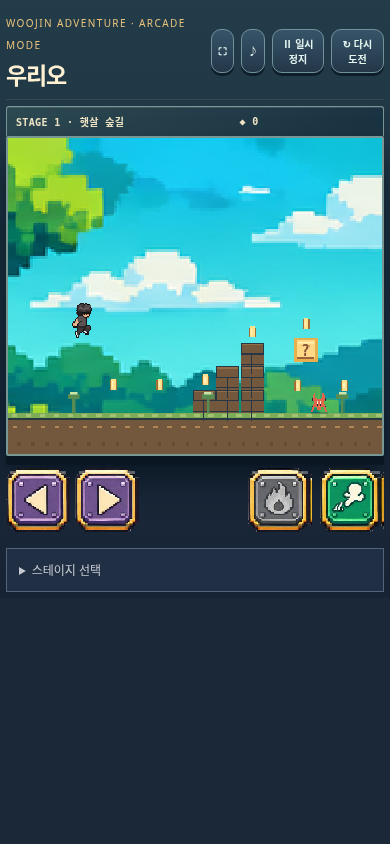
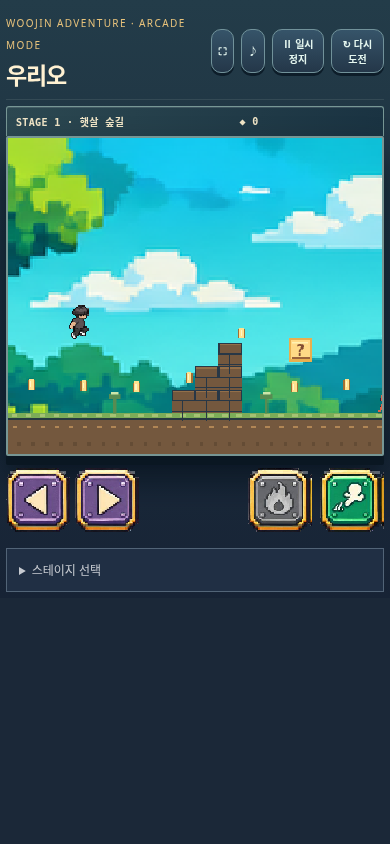
Author nine distinct Woorio room sequences and validate full motion envelopes

diff --git a/dist/adventure.js b/dist/adventure.js
@@ -11,151 +11,104 @@ let stage=0,world,player,camera=0,coins=0,deaths=0,checkpoint=false,bossCheckpoi
 const clamp=(x,a,b)=>Math.max(a,Math.min(b,x)),overlap=(a,b)=>a.x<b.x+b.w&&a.x+a.w>b.x&&a.y<b.y+b.h&&a.y+a.h>b.y;
 function save(){try{localStorage.setItem('woojin-adventure-v1',JSON.stringify({unlocked,total}))}catch{}}
 function level(i){
- const length=5500+i*800,platforms=[],gaps=[],boxes=[],step=i>=5?485:550-i*24,hasBoss=[2,5,8].includes(i);
- const gapStop=hasBoss?length-1720:length-730;
- for(let x=800,n=0;x<gapStop;x+=Math.max(410,step+((n*7+i*11)%5-2)*(i>=3?19:7)),n++)gaps.push([x,x+(i===8&&n===7?148:Math.min(185,82+i*12+(n%3)*5))]);
- const profiles=[
- {theme:'숲의 산책로',heights:[0,22,38,0,50,22],bridge:0},
- {theme:'무너지는 해안 다리',heights:[0,8,22,8,38,0],bridge:1},
- {theme:'유적의 기둥 회랑',heights:[0,42,72,22,82,38],bridge:2},
- {theme:'수정 동굴의 상하 갈림길',heights:[0,72,38,82,22,50],bridge:3},
- {theme:'다층 성벽의 스위치 통로',heights:[0,38,78,38,8,63],bridge:4},
- {theme:'승강기와 폭풍 교량',heights:[0,50,22,72,38,82],bridge:5},
- {theme:'정밀 가공 라인',heights:[0,22,63,8,78,30],bridge:6},
- {theme:'붕괴하는 공중 성벽',heights:[0,63,30,82,38,72],bridge:7},
- {theme:'최후의 복합 시련',heights:[0,78,24,56,82,38,8,72],bridge:8}];
- const profile=profiles[i],elevation=profile.heights,ground=[];
- let x=0;for(const[a,b]of gaps){const n=ground.length,y=n===0?470:470-elevation[(n+i)%elevation.length];ground.push({x,y,w:a-x,h:600-y,ground:true});x=b}
- ground.push({x,y:hasBoss?470:470-elevation[(ground.length+i)%elevation.length],w:length-x,h:150,ground:true});
- // Every climb uses individual standable bricks, not an inaccessible solid slab.
- for(const [n,p]of ground.entries()){
-  if(p.w<290||n===ground.length-1||n%2===1)continue;
-  const bx=p.x+(n===0?315:50);
-  if(bx+214>p.x+p.w-45||bx+214>length-750)continue;
-  // Keep a ground-level approach to each lucky box: stair bricks must not wall off its underside.
-  // Filled, standable brick columns; every solid step is supported from below.
-  const heights=(n+i)%3===1?[1,2,2]:[1,2,3];
-  heights.forEach((height,k)=>{for(let row=0;row<height;row++)boxes.push({x:bx+k*41,y:p.y-40-row*40,w:40,h:40,brick:true,box:false,used:false,broken:false,bump:0,stepBlock:true})});
-  const rewardTypes=['giant','fire','pet','shoes','shield'],reward=rewardTypes[(i*7+Math.floor(bx/41)+n*3)%rewardTypes.length];
-  boxes.push({x:bx+174,y:p.y-128,w:40,h:40,brick:false,box:true,reward,used:false,broken:false,bump:0,stepBlock:true});
- }
- platforms.push(...ground,...boxes);
- for(let n=0;n<5+i;n++){
-  const px=1130+n*(760-i*31),floor=ground.find(p=>px>p.x&&px<p.x+p.w);
-  platforms.push({x:px,y:Math.min(300,(floor?.y||470)-153)+(n%2)*18,w:98+(n%3)*12,h:22,baseX:px,moving:i>=2,phase:n,stone:true,ledge:true});
- }
- const hazards=[],decor=[],belts=[],switches=[];
- for(const [n,p]of ground.entries()){
-  if(p.w>290&&n>0&&n!==ground.length-1&&(n+i)%3!==1){
-   const hx=p.x+p.w-92,w=40+(i%2)*8;
-   if(!boxes.some(b=>hx<b.x+b.w+5&&hx+w>b.x-5))hazards.push({x:hx,y:p.y-21,w,h:21,kind:i%3,broken:false});
+ // Each stage is a sequence of authored rooms, not one repeated island template.
+ // [motif, room width, ground top, following gap]. Last room leads to a safe exit/arena.
+ const layouts=[
+ [['intro',800,470,72],['orchard',690,448,82],['steps',800,420,90],['grove',620,470,75],['creek',900,442,95],['terrace',750,400,0]],
+ [['intro',800,470,82],['dock',650,462,110],['tidal',820,432,100],['warehouse',740,400,90],['tidal',920,450,115],['cliff',680,420,0]],
+ [['intro',800,470,85],['columns',720,420,100],['court',640,395,110],['shrine',900,435,90],['columns',700,400,100],['arch',700,450,0]],
+ [['intro',800,470,90],['cavern',920,410,115],['fork',740,445,105],['crystal',820,390,120],['cavern',960,430,110],['fork',850,400,0]],
+ [['intro',800,470,95],['rampart',800,420,120],['gate',740,390,105],['gallery',980,450,115],['rampart',760,400,125],['gate',860,435,0]],
+ [['intro',800,470,100],['lift',720,420,120],['gantry',920,390,130],['depot',800,440,115],['lift',760,400,135],['rail',940,445,0]],
+ [['intro',800,470,100],['belt',900,420,125],['press',760,390,135],['belt',1050,450,120],['gear',900,400,140],['press',880,435,130],['rail',850,395,0]],
+ [['intro',800,470,105],['ruins',800,420,135],['split',940,390,125],['fragile',760,440,140],['ruins',900,400,130],['split',840,450,145],['fragile',980,395,0]],
+ [['intro',800,470,110],['gate',800,420,135],['lift',780,390,140],['fragile',950,440,130],['press',900,400,145],['split',840,450,135],['gear',920,395,140],['rampart',880,435,130],['rail',950,400,0]]
+ ];
+ const plan=layouts[i],platforms=[],ground=[],gaps=[],coins=[],enemies=[],hazards=[],saws=[],decor=[],belts=[],switches=[],rooms=[];
+ let cursor=0;const hasBoss=[2,5,8].includes(i);
+ for(const [motif,width,y,gap]of plan){const room={motif,x:cursor,w:width,y};rooms.push(room);ground.push({x:cursor,y,w:width,h:620-y,ground:true});cursor+=width;if(gap){gaps.push([cursor,cursor+gap]);cursor+=gap;}}
+ const arenaStart=cursor,length=cursor+(hasBoss?1740:420);ground.push({x:cursor,y:470,w:length-cursor,h:150,ground:true});platforms.push(...ground);
+ const ledge=(x,y,w=100,extra={})=>platforms.push({x,y,w,h:18,stone:true,ledge:true,...extra});
+ const column=(x,y,w,h)=>platforms.push({x,y,w,h,stone:true,wall:true});
+ const steps=(x,y,heights)=>heights.forEach((h,n)=>{for(let row=0;row<h;row++)platforms.push({x:x+n*40,y:y-(row+1)*40,w:40,h:40,brick:true,stepBlock:true,broken:false,bump:0})});
+ const box=(x,y,seed)=>platforms.push({x,y,w:40,h:40,box:true,brick:false,used:false,broken:false,bump:0,reward:['giant','fire','pet','shoes','shield'][(i*7+seed)%5]});
+ for(const[r,room]of rooms.entries()){
+  const{x,y,w,motif:m}=room;
+  // Stable, visible item bays are outside the structure/monster lanes.
+  if(r===0||r%2===1)box(x+(r===0?480:115),y-128,r*3+2);
+  switch(m){
+   case'intro':
+    if(i===0)steps(x+280,y,[1,2,3]);
+    else if(i===1){for(let n=0;n<3;n++)column(x+200+n*75,y-45,48,45);ledge(x+280,y-120,125);}
+    else if(i===2){column(x+220,y-80,60,80);column(x+330,y-120,70,120);}
+    else if(i===3){ledge(x+220,y-80,130);ledge(x+350,y-155,145);}
+    else if(i===4)steps(x+230,y,[1,2,3,3,2]);
+    else if(i===5){ledge(x+230,y-90,100,{elevator:true,baseX:x+230,baseY:y-90,phase:0});column(x+370,y-85,60,85);}
+    else if(i===6){belts.push({x:x+180,y:y-6,w:200,speed:85});column(x+380,y-70,60,70);}
+    else if(i===7){ledge(x+210,y-75,120,{crumble:true,collapseTime:0});ledge(x+345,y-140,110,{crumble:true,collapseTime:0});}
+    else{column(x+220,y-85,60,85);ledge(x+330,y-160,100);ledge(x+500,y-95,85,{elevator:true,baseX:x+500,baseY:y-95,phase:0});}
+    break;
+   case'orchard':steps(x+250,y,[1,2]);ledge(x+370,y-120,140);break;
+   case'steps':steps(x+220,y,[1,2,3,2,1]);break;
+   case'grove':column(x+280,y-70,100,70);ledge(x+440,y-135,150);break;
+   case'creek':ledge(x+230,y-75,160);ledge(x+475,y-130,130);break;
+   case'terrace':steps(x+220,y,[1,2,3]);ledge(x+380,y-165,160);break;
+   case'dock':for(let n=0;n<3;n++)column(x+230+n*80,y-55,50,55);break;
+   case'tidal':for(let n=0;n<4;n++)ledge(x+235+n*115,y-100-(n%2)*40,92,{crumble:true,collapseTime:0});break;
+   case'warehouse':steps(x+220,y,[1,2,3]);ledge(x+420,y-180,170);break;
+   case'cliff':steps(x+240,y,[1,2,3,3]);break;
+   case'columns':for(let n=0;n<3;n++)column(x+240+n*100,y-60-n*30,65,60+n*30);break;
+   case'court':steps(x+220,y,[2,3,2]);ledge(x+380,y-175,160);break;
+   case'shrine':steps(x+240,y,[1,2]);ledge(x+360,y-145,120);ledge(x+540,y-210,145);break;
+   case'arch':column(x+240,y-100,75,100);ledge(x+330,y-170,200);column(x+530,y-100,65,100);break;
+   case'cavern':steps(x+230,y,[1,2]);ledge(x+350,y-145,190);ledge(x+590,y-210,180);break;
+   case'fork':ledge(x+240,y-85,140);ledge(x+415,y-165,170);ledge(x+460,y-65,120,{crumble:true,collapseTime:0});break;
+   case'crystal':column(x+250,y-85,65,85);ledge(x+360,y-155,90);ledge(x+510,y-225,115);break;
+   case'rampart':steps(x+230,y,[1,2,3]);ledge(x+370,y-185,145);ledge(x+555,y-115,100);break;
+   case'gate':steps(x+230,y,[1,2]);{const gate={x:x+w-160,y:y-96,w:28,h:96,stone:true,gate:true,broken:false};platforms.push(gate);switches.push({x:x+w-330,y:y-46,w:36,h:46,time:0,gate});}break;
+   case'gallery':ledge(x+240,y-90,180);ledge(x+460,y-170,210);steps(x+740,y,[2,1]);break;
+   case'lift':ledge(x+240,y-90,105,{elevator:true,baseX:x+240,baseY:y-90,phase:r});ledge(x+415,y-175,130);break;
+   case'gantry':steps(x+230,y,[1,2]);ledge(x+370,y-160,115,{moving:true,baseX:x+370,phase:r});ledge(x+620,y-190,150);break;
+   case'depot':column(x+640,y-80,60,80);steps(x+240,y,[1,2,2,1]);ledge(x+460,y-150,140,{elevator:true,baseX:x+460,baseY:y-150,phase:r});break;
+   case'rail':column(x+720,y-80,60,80);ledge(x+240,y-90,110,{moving:true,baseX:x+240,phase:r});ledge(x+480,y-160,100,{moving:true,baseX:x+480,phase:r+2});break;
+   case'belt':belts.push({x:x+250,y:y-6,w:300,speed:r%2?-90:90});ledge(x+600,y-100,130);break;
+   case'press':column(x+620,y-80,60,80);steps(x+230,y,[1,2]);ledge(x+390,y-155,130);saws.push({x:x+540,y:y-75,baseX:x+540,baseY:y-75,r:16,phase:r*1.7,range:48,speed:1.6});break;
+   case'gear':for(let n=0;n<3;n++)ledge(x+240+n*150,y-90-(n%2)*65,90,{elevator:true,baseX:x+240+n*150,baseY:y-90-(n%2)*65,phase:n*2});break;
+   case'ruins':column(x+250,y-95,70,95);ledge(x+370,y-165,100,{crumble:true,collapseTime:0});ledge(x+540,y-100,100,{crumble:true,collapseTime:0});break;
+   case'split':steps(x+230,y,[1,2]);for(let n=0;n<3;n++)ledge(x+350+n*160,y-155-(n%2)*65,85,{crumble:n!==1,collapseTime:0,moving:i>=7&&n===1,baseX:x+350+n*160,phase:r});break;
+   case'fragile':for(let n=0;n<4;n++)ledge(x+230+n*135,y-90-(n%2)*70,72,{crumble:true,collapseTime:0});break;
   }
-  for(let dx=p.x+110;dx<p.x+p.w-90;dx+=230-i*9)decor.push({x:dx,y:p.y,kind:(n+i)%3});
+  // Teaching spring in an open bay; later mixes preserve the known mechanics.
+  if(r===1)ledge(x+w-105,y-14,48,{spring:true,h:14});
+  if(i>=1&&r===2)ledge(x+45,y-115,74,{crumble:true,collapseTime:0});
+  if(i>=2&&r===3)ledge(x+w-160,y-90,84,{elevator:true,baseX:x+w-160,baseY:y-90,phase:1});
+  if(i>=3&&r===2)belts.push({x:x+w-190,y:y-6,w:90,speed:78});
+  if(i>=4&&r===2&&!switches.length){const gate={x:x+w-60,y:y-96,w:28,h:96,gate:true,stone:true,broken:false};platforms.push(gate);switches.push({x:x+w-230,y:y-46,w:36,h:46,time:0,gate});}
+  if(i>=5&&r%2===1&&m!=='press')saws.push({x:x+w-220,y:y-160,baseX:x+w-220,baseY:y-160,r:16,phase:r,range:35,speed:1.5});
+  if(r>0&&(r%2===0||i>=5))hazards.push({x:x+w-250,y:y-20,w:28,h:20,kind:i%3,broken:false});
+  for(let dx=40;dx<w-30;dx+=90)coins.push({x:x+dx,y:y-47,taken:false});
+  for(let dx=180;dx<w-40;dx+=260)decor.push({x:x+dx,y,kind:r%3});
+  const type=r%Math.min(4,i+2);enemies.push({x:x+(r===0?650:55),y:y-(type===2?135:32),w:34,h:32,vx:(r%2?1:-1)*(30+i*4),type,alive:true,phase:r,timer:2,baseY:y-(type===2?135:32),hp:type===1?2:1});
+  if(i>=2&&r===3)enemies.push({x:x+200,y:y-150,w:36,h:30,vx:40,type:4,alive:true,phase:r,timer:2,baseY:y-150,hp:1});
+  if(i>=4&&r===4)enemies.push({x:x+65,y:y-38,w:38,h:38,vx:0,type:5,alive:true,phase:r,timer:2,baseY:y-38,hp:2});
  }
- const saws=[];
- if(i>=5){
-  for(const [n,p] of ground.entries()){
-   if(p.w<255||n===0||n===ground.length-1||n%3===1||boxes.some(b=>b.x>=p.x&&b.x<p.x+p.w))continue;
-   const wx=p.x+Math.min(p.w-76,p.w<330?145:178+(n%3)*12),top=p.y-(p.w<330?95:113);
-   for(let h=hazards.length-1;h>=0;h--)if(hazards[h].x<wx+54&&hazards[h].x+hazards[h].w>wx)hazards.splice(h,1);
-   platforms.push({x:wx,y:top,w:54,h:p.y-top,stone:true,wall:true});
-   platforms.push({x:wx+47,y:top-66,w:110,h:18,stone:true,ledge:true});
-   platforms.push({x:wx+146,y:top-116,w:90,h:18,stone:true,ledge:true});
-   if(n%2===0&&wx>p.x+110)hazards.push({x:wx+8,y:top-20,w:32,h:20,kind:2,broken:false});
-   saws.push({x:wx+155,y:top-33,baseX:wx+155,baseY:top-33,r:17,phase:n*1.8,range:42+7*(i-5),speed:1.7+(i-5)*.18});
-  }
-  if(saws.length<2)for(let n=0;n<2;n++)saws.push({x:900+n*700,y:345,baseX:900+n*700,baseY:345,r:16,phase:n*2,range:55,speed:2});
-  // Alternate ground spikes with the staircase segments. These are jumpable,
-  // never hidden inside the boxes or the tall climbing walls.
-  for(const [n,p] of ground.entries())if(n%2===1&&n!==ground.length-1&&p.w>=250){
-   const hx=p.x+Math.min(p.w-50,Math.max(155,p.w*.66)),w=36;
-   if(!platforms.some(q=>q.wall&&hx<q.x+q.w&&hx+w>q.x))hazards.push({x:hx,y:p.y-21,w,h:21,kind:2,broken:false});
-  }
- }
- // Mechanics appear progressively: spring, crumble, elevator, conveyor, timed gate.
- for(const [n,p] of ground.entries()){
-  if(n===0||n===ground.length-1||p.w<275)continue;
-  if(n%4===1)platforms.push({x:p.x+Math.min(105,p.w*.3),y:p.y-14,w:48,h:14,spring:true,ledge:true,stone:true});
-  if(i>=1&&n%4===2)platforms.push({x:p.x+Math.min(190,p.w*.44),y:p.y-120,w:74,h:16,crumble:true,ledge:true,stone:true,collapseTime:0});
-  if(i>=2&&n%4===0)platforms.push({x:p.x+Math.min(190,p.w*.42),y:p.y-135,w:84,h:18,baseX:p.x+Math.min(190,p.w*.42),baseY:p.y-135,elevator:true,ledge:true,stone:true,phase:n});
-  if(i>=3&&n%3===1)belts.push({x:p.x+Math.min(155,p.w*.37),y:p.y-6,w:Math.min(100,p.w*.23),speed:(n%2?-78:78)});
-  if(i>=4&&n%4===3&&p.w>215){
-   const sx=p.x+35,gx=p.x+Math.min(220,p.w-54);
-   for(let j=hazards.length-1;j>=0;j--)if(hazards[j].x<gx+36&&hazards[j].x+hazards[j].w>sx-30)hazards.splice(j,1);
-   const gate={x:gx,y:p.y-96,w:28,h:96,gate:true,stone:true,broken:false};
-   platforms.push(gate);switches.push({x:sx,y:p.y-46,w:36,h:46,time:0,gate});
-  }
- }
- const routeStart=platforms.length;
- // Alternate routes are deliberate one-way structures, not unsupported solid walls.
- for(const [n,gap] of gaps.entries()){
-  if((n+i)%3!==0)continue;
-  const left=ground.find(p=>p.x+p.w===gap[0]),right=ground.find(p=>p.x===gap[1]);
-  if(!left||!right)continue;
-  const y=Math.min(left.y,right.y)-60;
-  if(i===1)platforms.push({x:gap[0]-28,y,w:gap[1]-gap[0]+56,h:16,ledge:true,crumble:true,collapseTime:0,stone:true});
-  else if(i===3||i===7)for(let k=0;k<3;k++)platforms.push({x:gap[0]-42+k*83,y:y-(k===1?64:0),w:i===7?60:90,h:16,ledge:true,stone:true,crumble:i===7,collapseTime:0});
-  else if(i===5||i===8)platforms.push({x:gap[0]+18,y:y-25,w:i===8?66:92,h:18,ledge:true,stone:true,elevator:true,baseX:gap[0]+18,baseY:y-25,phase:n});
- }
- for(let n=platforms.length-1;n>=routeStart;n--)if(boxes.some(b=>b.box&&platforms[n].x<b.x+180&&platforms[n].x+platforms[n].w>b.x-80))platforms.splice(n,1);
- const coins=[];
- for(let n=0;n<65+i*12;n++){
-  const cx=180+n*(length-350)/(65+i*12),floor=ground.find(p=>cx>=p.x&&cx<=p.x+p.w);
-  if(floor)coins.push({x:cx,y:floor.y-47,taken:false});
- }
- boxes.filter(b=>b.box).forEach(b=>coins.push({x:b.x+20,y:b.y-27,taken:false}));
- const enemies=[];
- ground.forEach((p,n)=>{
-  if(p.w<270||n===ground.length-1) return;
-  let ex=p.x+(n===0?535:Math.min(p.w-115,118+(n%3)*47));
-  if(ex+34>p.x+p.w-30)ex=p.x+p.w-90;
-  if(boxes.some(b=>ex<b.x+b.w+5&&ex+34>b.x-5))ex=p.x+p.w-128;
-  if(hazards.some(h=>ex<h.x+h.w+20&&ex+34>h.x-20))ex=p.x+58;
-  const type=n%Math.min(4,i+2),ey=type===2?p.y-135:p.y-32;
-  enemies.push({x:ex,y:ey,w:34,h:32,vx:(n%2?1:-1)*(32+i*5),min:Math.max(p.x+34,ex-40),max:Math.min(p.x+p.w-70,ex+44),alive:true,type,phase:n,timer:1.5+n%3,baseY:ey,hp:type===1?2:1});
-  if(i>=2&&n%5===3)enemies.push({x:p.x+Math.min(235,p.w-75),y:p.y-150,w:36,h:30,vx:42,min:p.x+95,max:p.x+p.w-55,alive:true,type:4,phase:n,timer:1.6,baseY:p.y-150,hp:1});
-  if(i>=4&&n%5===4)enemies.push({x:p.x+Math.min(245,p.w-70),y:p.y-38,w:38,h:38,vx:0,min:0,max:0,alive:true,type:5,phase:n,timer:1.65,baseY:p.y-38,hp:2});
- });
- // Choose a continuous, obstacle-free patrol interval including the whole body.
- for(let index=enemies.length-1;index>=0;index--){const e=enemies[index],floor=ground.find(p=>e.x>=p.x&&e.x<p.x+p.w);if(!floor){enemies.splice(index,1);continue;}
-  const flight=e.type===2?48:e.type===4?54:0,free=[];let span=null;
-  for(let x=floor.x+20;x<=floor.x+floor.w-e.w-20;x+=4){const body={x,y:e.y-flight,w:e.w,h:e.h+flight*2};const clear=!platforms.some(p=>!p.ground&&overlap(body,p))&&!hazards.some(h=>overlap(body,h));if(clear){if(!span)span={a:x,b:x};span.b=x;}else if(span){free.push(span);span=null;}}if(span)free.push(span);
-  const candidates=free.filter(p=>p.b-p.a>=12).sort((a,b)=>Math.abs((a.a+a.b)/2-e.x)-Math.abs((b.a+b.b)/2-e.x));if(!candidates.length){enemies.splice(index,1);continue;}const area=candidates[0];e.x=clamp(e.x,area.a,area.b);e.min=e.type===5?e.x:Math.max(area.a,e.x-44);e.max=e.type===5?e.x:Math.min(area.b,e.x+44);
- }
- enemies.forEach(e=>Object.assign(e,{spawnX:e.x,spawnY:e.y,spawnVx:e.vx,spawnType:e.type,spawnTimer:e.timer,maxHp:e.hp}));
- // A checkpoint must be a safe standing location on the *current* terrain.
- // Prefer the world midpoint, but avoid bricks, spikes, enemies, and roaming saws.
- const checkpointCandidates=[];
- for(const p of ground)for(let sx=p.x+38;sx+34<=p.x+p.w-38;sx+=12){
-  const body={x:sx,y:p.y-64,w:34,h:64},buffer={x:sx-20,y:p.y-69,w:74,h:69};
-  if(platforms.some(q=>!q.ground&&overlap(body,q)))continue;
-  if(hazards.some(h=>overlap(buffer,h)))continue;
-  if(enemies.some(e=>Math.abs(e.x+e.w/2-sx-17)<85&&Math.abs(e.y+e.h/2-(p.y-32))<95))continue;
-  if(saws.some(s=>Math.abs(s.baseX-sx-17)<s.range+s.r+40&&Math.abs(s.baseY-(p.y-32))<85))continue;
-  checkpointCandidates.push({x:sx,y:p.y-64,groundY:p.y});
- }
- checkpointCandidates.sort((a,b)=>Math.abs(a.x-length*.5)-Math.abs(b.x-length*.5));
- const checkpointSpawn=checkpointCandidates[0]||{x:ground[0].x+55,y:ground[0].y-64,groundY:ground[0].y};
  const kind=i===2?'stone':i===5?'storm':i===8?'shadow':null,hp=kind==='stone'?4:kind==='storm'?6:9;
  const boss=kind?{kind,name:kind==='stone'?'이끼 골렘':kind==='storm'?'폭주 기계병':'공허의 지배자',x:length-425,y:327,w:84,h:143,hp,maxHp:hp,phase:0,attackTimer:1.2,hitTimer:0,defeated:false}:null;
- const bossPickups=kind?[{x:length-950,y:302,used:false,reset:0},{x:length-685,y:267,used:false,reset:0}]:[];
- const bossGround=ground[ground.length-1],bossSpawn=kind?{x:length-1320,y:bossGround.y-64,groundY:bossGround.y}:null;
- // Boss arenas are different obstacle courses. A box here is always reachable
- // from level ground, and the last island is clear for the victory exit.
- if(kind){
-  const low=bossGround.y;
-  if(kind==='stone')for(let j=0;j<4;j++)platforms.push({x:length-1180+j*145,y:low-105-(j%2)*62,w:88,h:18,stone:true,ledge:true});
-  if(kind==='storm')for(let j=0;j<4;j++)platforms.push({x:length-1170+j*145,y:low-135,w:82,h:18,stone:true,ledge:true,elevator:true,baseX:length-1170+j*145,baseY:low-135,phase:j*1.7});
-  if(kind==='shadow')for(let j=0;j<5;j++)platforms.push({x:length-1240+j*128,y:low-105-(j%3)*51,w:75,h:16,stone:true,ledge:true,crumble:j%2===0,collapseTime:0});
-  const rx=length-1120;platforms.push({x:rx,y:low-143,w:40,h:40,brick:false,box:true,reward:kind==='shadow'?'shield':kind==='storm'?'shoes':'fire',used:false,broken:false,bump:0});
+ const bossSpawn=kind?{x:arenaStart+220,y:406,groundY:470}:null,bossPickups=kind?[{x:length-950,y:302,used:false,reset:0},{x:length-685,y:267,used:false,reset:0}]:[];
+ if(kind){for(let j=0;j<5;j++)ledge(length-1240+j*135,365-(j%3)*50,kind==='shadow'?78:100,kind==='storm'?{elevator:true,baseX:length-1240+j*135,baseY:365-(j%3)*50,phase:j*1.7}:kind==='shadow'?{crumble:j%2===0,collapseTime:0}:{});box(length-1450,327,41);}
+ // Validate AFTER all rooms and the boss arena have been assembled.
+ const motion=p=>({x:p.x-(p.moving?58:0),y:(p.baseY??p.y)-(p.elevator?50:0),w:p.w+(p.moving?116:0),h:p.h+(p.elevator?100:0)});
+ for(const h of hazards){if(!platforms.some(p=>!p.ground&&overlap(h,motion(p))))continue;const floor=ground.find(p=>h.x>=p.x&&h.x<p.x+p.w);const candidates=[];for(let x=floor.x+220;x<floor.x+floor.w-h.w-60;x+=8){const r={...h,x};if(!platforms.some(p=>!p.ground&&overlap(r,motion(p))))candidates.push(x);}candidates.sort((a,b)=>Math.abs(a-h.x)-Math.abs(b-h.x));if(!candidates.length)throw Error('No safe hazard bay');h.x=candidates[0];}
+ for(const b of platforms.filter(p=>p.box)){
+  const floor=ground.find(p=>b.x>=p.x&&b.x<p.x+p.w),original=b.x;
+  const clear=x=>{const bay={x:x-12,y:b.y-8,w:64,h:floor.y-b.y+8};return !platforms.some(p=>p!==b&&!p.ground&&overlap(bay,motion(p)))&&!hazards.some(h=>overlap(bay,h));};
+  if(!clear(b.x)){const choices=[];for(let x=floor.x+55;x<floor.x+floor.w-100;x+=8)if(clear(x))choices.push(x);choices.sort((a,b)=>Math.abs(a-original)-Math.abs(b-original));if(!choices.length)throw Error('No safe item bay stage '+(i+1));b.x=choices[0];}
  }
- // Full collection rectangle, including bobbing, must clear every structure.
- for(let n=coins.length-1;n>=0;n--){const c=coins[n];let tries=0;
-  while(platforms.some(p=>overlap({x:c.x-9,y:c.y-14,w:18,h:28},p))&&tries++<28)c.y-=6;
-  const support=platforms.filter(p=>c.x>=p.x-12&&c.x<=p.x+p.w+12&&p.y>=c.y+14).sort((a,b)=>a.y-b.y)[0];
-  if(c.y<45||!support||support.y-c.y>145||platforms.some(p=>overlap({x:c.x-9,y:c.y-14,w:18,h:28},p)))coins.splice(n,1);
- }
- return{profile:profile.theme,length,platforms,gaps,coins,enemies,hazards,saws,decor,belts,switches,items:[],shots:[],flag:checkpointSpawn.x+17,checkpointSpawn,bossSpawn,bossFlag:bossSpawn?.x+17,goal:length-130,boss,bossPickups};
+ for(let n=coins.length-1;n>=0;n--){const c=coins[n];let tries=0;while(platforms.some(p=>overlap({x:c.x-9,y:c.y-14,w:18,h:28},motion(p)))&&tries++<30)c.y-=6;if(c.y<45||platforms.some(p=>overlap({x:c.x-9,y:c.y-14,w:18,h:28},motion(p))))coins.splice(n,1);}
+ for(const e of enemies){const floor=ground.find(p=>e.x>=p.x&&e.x<p.x+p.w),flight=e.type===2?48:e.type===4?54:0;let spans=[],span=null;
+  for(let x=floor.x+24;x<=floor.x+floor.w-e.w-24;x+=4){const body={x,y:e.baseY-flight,w:e.w,h:e.h+2*flight},clear=!platforms.some(p=>!p.ground&&overlap(body,motion(p)))&&!hazards.some(h=>overlap(body,h));if(clear){if(!span)span={a:x,b:x};span.b=x;}else if(span){spans.push(span);span=null;}}if(span)spans.push(span);spans=spans.filter(s=>s.b-s.a>=12).sort((a,b)=>Math.abs((a.a+a.b)/2-e.x)-Math.abs((b.a+b.b)/2-e.x));if(!spans.length)throw Error('No safe patrol stage '+(i+1));const s=spans[0];e.x=clamp(e.x,s.a,s.b);e.min=e.type===5?e.x:Math.max(s.a,e.x-48);e.max=e.type===5?e.x:Math.min(s.b,e.x+48);Object.assign(e,{spawnX:e.x,spawnY:e.y,spawnVx:e.vx,spawnType:e.type,spawnTimer:e.timer,maxHp:e.hp});}
+ const candidates=[];for(const p of ground)for(let x=p.x+40;x<p.x+p.w-74;x+=12){const body={x:x-20,y:p.y-70,w:74,h:70};if(platforms.some(q=>!q.ground&&overlap(body,motion(q)))||hazards.some(h=>overlap(body,h))||enemies.some(e=>x+60>e.min&&x-60<e.max+e.w)||saws.some(s=>Math.abs(s.baseX-x)<s.range+70))continue;candidates.push({x,y:p.y-64,groundY:p.y});}candidates.sort((a,b)=>Math.abs(a.x-length*.5)-Math.abs(b.x-length*.5));const checkpointSpawn=candidates[0]||{x:70,y:406,groundY:470};
+ return{profile:rooms.map(r=>r.motif).join(' / '),rooms,length,platforms,gaps,coins,enemies,hazards,saws,decor,belts,switches,items:[],shots:[],flag:checkpointSpawn.x+17,checkpointSpawn,bossSpawn,bossFlag:bossSpawn?.x+17,goal:length-130,boss,bossPickups};
 }
 function start(i=stage){stage=i;world=level(i);player={x:70,y:390,vx:0,vy:0,w:34,h:64,ground:false,invulnerable:0,power:null,powerTime:0,airJump:1,shieldHits:0,springCooldown:0,pet:false,petGold:false,petX:40,petY:430,petCooldown:0,fireCooldown:0,bossAmmo:0,facing:1};camera=0;time=0;coins=0;checkpoint=false;bossCheckpoint=false;particles=[];running=true;paused=false;completed=false;stageDone=false;releaseKeys();coyote=0;deathPhase=null;deathCause=null;deathTimer=0;$('deathCurtain').hidden=true;noticeTime=0;$('notice').textContent='';$('panel').classList.add('hidden');updateHud();updateStages();canvas.focus({preventScroll:true})}
 function message(title,text,label){$('panelTitle').textContent=title;$('panelText').textContent=text;$('play').textContent=label;$('panel').classList.remove('hidden')}
@@ -291,7 +244,7 @@ function draw(){ctx.clearRect(0,0,W,H);if(background.complete&&background.natura
  for(const s of world.shots){rect(s.x-3,s.y+3,18,6,s.hostile?'#ac7edc':'#ed7548');rect(s.x+2,s.y,8,12,s.hostile?'#eee2ff':'#fff2ac')}
  function flag(x,goal,active){const surface=world.platforms.find(p=>p.ground&&x>=p.x&&x<p.x+p.w),base=surface?.y??470;rect(x,base-160,4,160,'#e3d9aa');rect(x-4,base-164,12,8,'#f7d875');rect(x+4,base-154,44,26,goal?'#de9272':active?'#80d8bc':'#829dc6');rect(x+10,base-149,12,12,'#fff1b9');rect(x-9,base-7,22,7,'#384d51')}flag(world.flag,false,checkpoint);if(world.bossFlag)flag(world.bossFlag,false,bossCheckpoint);flag(world.goal,true,false);
  if(player.pet)PixelArt.draw(ctx,player.petGold?'dogGold':'dog',player.petX,player.petY,34,28,player.facing<0);
- ctx.globalAlpha=player.invulnerable>0&&!deathPhase&&Math.floor(time*12)%2?.5:1;if(!deathPhase&&heroSheet.complete&&heroSheet.naturalWidth){const pose=!player.ground?3:player.land>0?4:Math.abs(player.vx)>20?[1,0,2,0][Math.floor(time*12)%4]:0,index=(player.facing<0?5:0)+pose,scale=player.h/64;ctx.drawImage(heroSheet,index*64,0,64,80,Math.round(player.x+player.w/2-32*scale),Math.round(player.y+player.h-72*scale),64*scale,80*scale);}else PixelArt.draw(ctx,deathPhase?'heroDead':'hero',player.x-5,player.y,player.w+10,player.h,player.facing<0,0);ctx.globalAlpha=1;
+ ctx.globalAlpha=player.invulnerable>0&&!deathPhase&&Math.floor(time*12)%2?.5:1;if(heroSheet.complete&&heroSheet.naturalWidth){const pose=deathPhase?4:!player.ground?3:player.land>0?4:Math.abs(player.vx)>20?[1,0,2,0][Math.floor(time*12)%4]:0,index=(player.facing<0?5:0)+pose,scale=player.h/64;ctx.drawImage(heroSheet,index*64,0,64,80,Math.round(player.x+player.w/2-32*scale),Math.round(player.y+player.h-72*scale),64*scale,80*scale);}else PixelArt.draw(ctx,deathPhase?'heroDead':'hero',player.x-5,player.y,player.w+10,player.h,player.facing<0,0);ctx.globalAlpha=1;
  if(player.power){rect(player.x-4,player.y-8,player.w+8,3,({giant:'#ffcaa0',fire:'#ffaf4b',shoes:'#8bd9f2',shield:'#a6f8dd'})[player.power]);if(Math.floor(time*8)%2)rect(player.x+(Math.floor(time*5)%2?player.w:0),player.y+player.h*.4,4,4,'#fff5b0');if(player.shieldHits){ctx.strokeStyle='#83f7dd';ctx.lineWidth=4;ctx.strokeRect(player.x-7,player.y-10,player.w+14,player.h+16)}}
  for(const p of particles)if(p.x>camera-12&&p.x<camera+W+12){ctx.globalAlpha=p.life/.6;rect(p.x,p.y,4,4,p.color)}ctx.globalAlpha=1;ctx.restore();
 }

diff --git a/docs/WOORIO-V26-HANDOFF.md b/docs/WOORIO-V26-HANDOFF.md
@@ -1,0 +1,58 @@
+# Woorio distinct rooms / collision envelopes / death sprite — 2026-11-06
+
+## Source and publication
+Branch feat/woorio-distinct-maps from d03176c. Sites fetched c513bd1 was an ancestor,
+working tree clean at start. Public audience retained, deployment authorized by
+owner's persistent default. No other game's product code or save keys changed.
+
+## Implemented
+- Replaced repeated island/stair/box formula with 9 authored room sequences, varying
+  room lengths, gap positions/widths, surface heights and structural motifs. Shared
+  construction helpers retain existing gameplay objects; no parallel physics engine.
+- Distinct opening in every stage. Later rooms: forest grove/terraces; coastal piers,
+  tidal crumble route/warehouse; ruin columns/court/shrine/arch; cave upper/lower forks;
+  rampart/gates/gallery; elevators/gantries/depot/rail; belt/press/gear factory;
+  ruins/split/fragile walls; final mixed precision rooms. Three existing boss arenas,
+  powers, respawns, fixed rewards, controls and save format retained.
+- Lucky boxes are validated only AFTER complete room and boss assembly. Full box,
+  underside/standing bay and moving/elevator platform sweeps must be clear. Conflicts
+  relocate to nearest valid ground bay, keeping deterministic reward unchanged.
+- All enemy patrol/flight envelopes include entire bodies, ±48px bat / conservative
+  ±54px shadow bat; compare to complete moving-platform ±58X / elevator ±50Y envelope,
+  including one-way platforms (old tests excluded them). Entire patrol interval fits
+  a continuous clear ground room. Stationary turrets stay at their own coordinates.
+- Spikes checked against all structures; conflicting spikes relocate to clear bays.
+- Death rebound uses NEW supplied hero atlas crouched pose for left/right with same
+  feet/scale as normal poses. Existing rebound physics retained. Old heroDead sprite
+  is only unloaded-art fallback, not shown when atlas is ready.
+
+## Actual tests
+- New adventure-sweeps first failed36cases on old maps; now passes9maps. Includes box
+  body vs structures and complete enemy/structure motion sweeps, not initial point only.
+- adventure-room-physics: all40boxes activated using engine jump input from isolated
+  standing setup (no direct bump call);20simulated seconds per stage with dynamic
+  NPC/structure body checks. Passed. This is not a full route-to-each-box playthrough.
+- Existing adventure-unit/v20/v21/v22/v24, placement, boss-phases, power-duration PASS.
+- Real Chromium adventure-distinct-browser: all9room sequences and renders, oldDead
+  draw count zero during actual rebound, mobile overflow/runtime errors PASS.
+- Real Chromium adventure-polish-browser: controls, multitouch, stable canvas and
+  isolated boss pickup/projectile travel PASS. Grow browser.cjs and merge.cjs PASS.
+- Captures docs/woorio-v26/intro-1..9, stage-1..9, death, mobile, nine-starts.png.
+  Opened contact sheet, death, and several actual interior frames for comparison.
+- Final real-input local jump search50/50 PASS with enemies/hazards enabled. Isolated
+  takeoff setup, not continuous clear. Different count follows changed authored maps.
+- Full input-only AI one variant, max4deaths:1/9clear, no warps or state edits. Complete
+  logs docs/woorio-v26/ai-playthrough.jsonl and local-jumps.jsonl. Full9clear remains
+  unverified. Do not claim this is proof allmaps impossible or fully validated.
+- No physical mobile hardware or long-run real-device performance test.
+
+## Resume / commands
+`python -m http.server 8765 --directory dist`
+`node tests/adventure-distinct-browser.cjs`
+`node tests/adventure-room-physics.cjs`
+`node tests/adventure-sweeps.cjs`
+`node tests/adventure-ai-jump-reachability.cjs`
+`AI_ATTEMPTS=1 node tests/adventure-ai-playthrough.cjs` (known diagnostic nonzero).
+Next priority is stronger input AI for upper routes/waiting/monster timing and actual
+human mobile playthroughs, not another duplicate combat or generic map generator.
+Safe rollback is previous public source c513bd1; keep saves and never force push.

diff --git a/docs/WOORIO-V25-HANDOFF.md b/docs/WOORIO-V25-HANDOFF.md
@@ -102,3 +102,7 @@ and actual Chromium PC/mobile polish test successfully. Existing AI limits uncha
 - URL https://woojingame.asnt1.chatgpt.site/#adventure ; public audience preserved.
 - Gameplay limitations still130/132 local jump probes and0/9 full AI clears.
   Publication success does not change those results. This last note is docs-only.
+
+## Superseded by distinct room maps
+See WOORIO-V26-HANDOFF.md and feat/woorio-distinct-maps. Old132gap counts and repeated
+room layout are no longer current; new maps have50gaps, local jump probe50/50.
